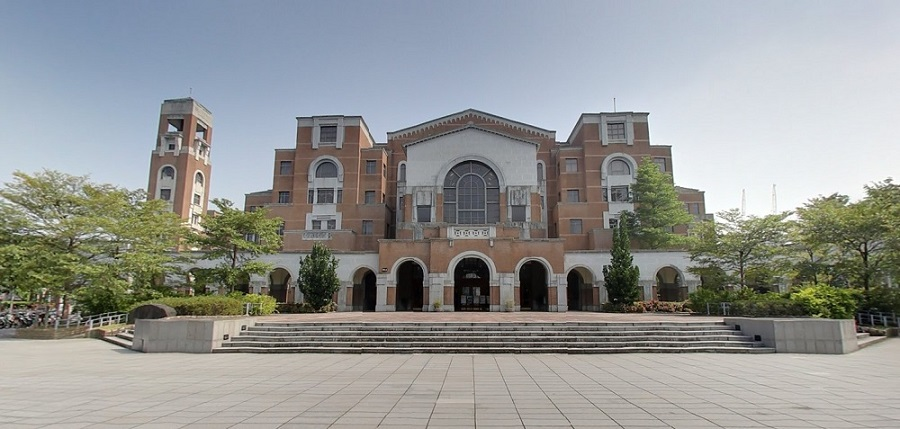
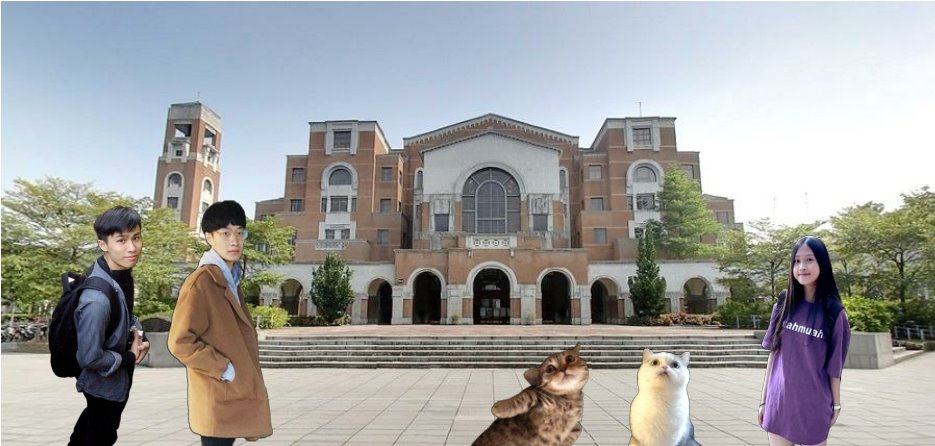
change library picture

diff --git a/css/style.css b/css/style.css
@@ -121,10 +121,10 @@ header .navbar-brand img {
  */
  
 .banner {
-	background: #fff url('../img/library2.jpg');
+	background: #fff url('../img/library.jpg');
 	background-repeat: no-repeat;
 	background-position: center;
-	background-size: 1200px 500px;
+	background-size: 1100px 500px;
 	padding-top: 150px;
 	padding-bottom: 150px;
 	text-align: center;
